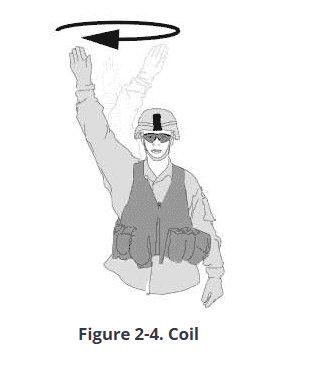
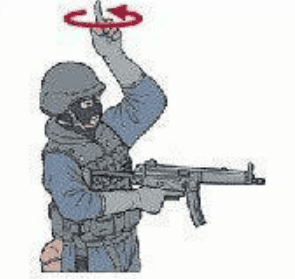
Add files via upload

diff --git a/data/general-knowledge.js b/data/general-knowledge.js
@@ -172,12 +172,12 @@ window.GENERAL_KNOWLEDGE_DATA = [
   {
     "id": "gk-ambush-types",
     "prompt": "What are the two types of ambush?",
-    "answer": "Point and area",
+    "answer": "Point and Area",
     "choices": [
-      "Point and area",
-      "Near and far",
-      "Hasty and deliberate",
-      "Linear and L-shaped"
+      "Point and Area",
+      "Attack and Defend",
+      "Day and Night",
+      "Mounted and Dismounted"
     ],
     "answerType": "unordered-list",
     "requiredItems": [
@@ -185,6 +185,7 @@ window.GENERAL_KNOWLEDGE_DATA = [
       "Area"
     ],
     "acceptedAnswers": [
+      "Point and area",
       "Point ambush and area ambush",
       "Point ambushes and area ambushes"
     ]